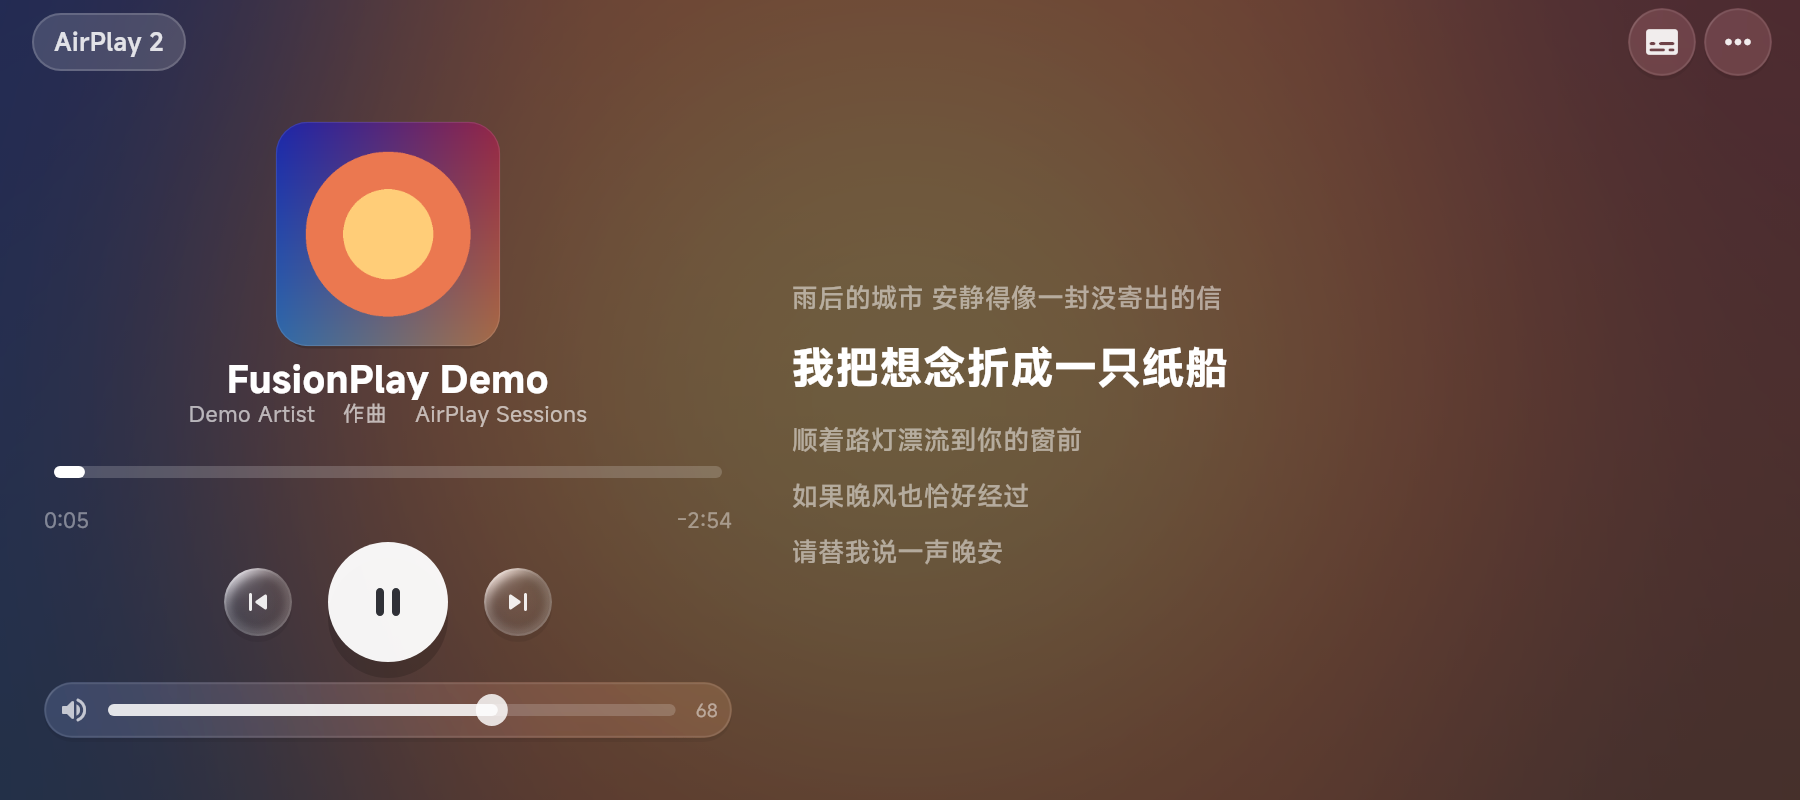
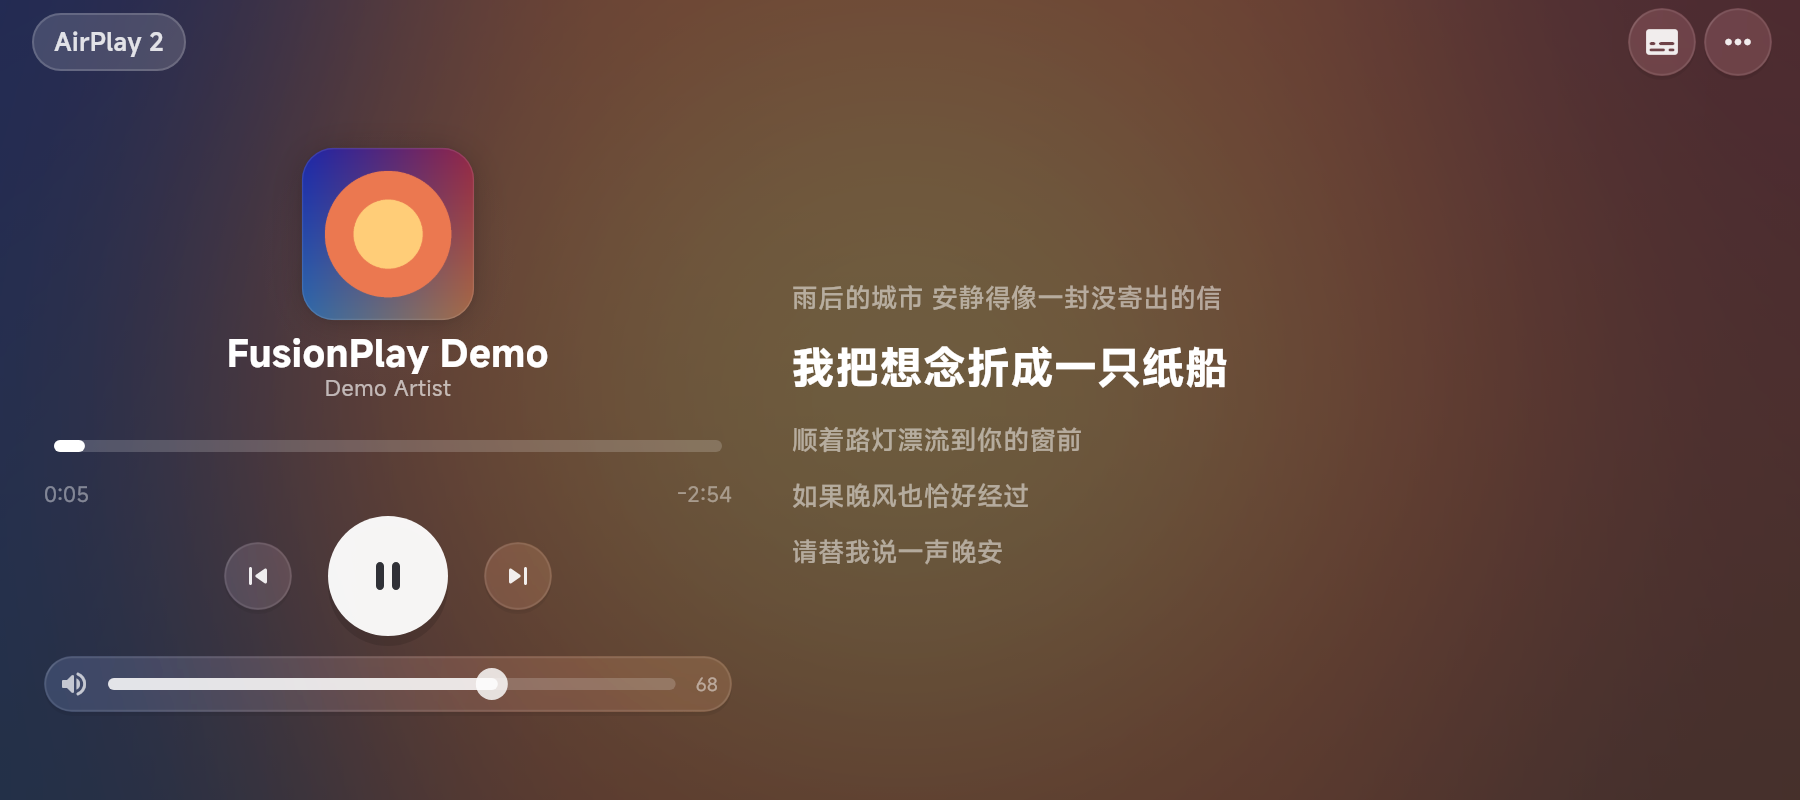
player: drop composer marker and source/lyrics hint lines

Changed region(s): [[0.0, 0.125, 0.4044, 0.9375]]

diff --git a/flutter/lib/ui/player_view.dart b/flutter/lib/ui/player_view.dart
@@ -9,7 +9,6 @@ import '../theme/fusion_theme.dart';
 import 'animated_press_scale.dart';
 import 'artwork.dart';
 import 'floating_album_art.dart';
-import 'liquid_glass.dart';
 import 'g2_shape.dart';
 import 'package:liquid_glass_widgets/liquid_glass_widgets.dart' as lg;
 
@@ -306,6 +305,25 @@ class _PlayerViewState extends State<PlayerView> {
       );
     }
     return playback.lyrics;
+  }
+
+  /// Some senders append a composer marker ("作曲", "Composer") to the artist
+  /// field. The player shows the performer only.
+  String? _cleanArtist(String? raw) {
+    final value = raw?.trim();
+    if (value == null || value.isEmpty) return null;
+    var cleaned = value
+        .replaceAll(
+          RegExp(r'\s*[·•|｜/]\s*(作曲|Composer)\s*$', caseSensitive: false),
+          '',
+        )
+        .replaceAll(
+          RegExp(r'^\s*(作曲|Composer)\s*[·•|｜/]?\s*', caseSensitive: false),
+          '',
+        )
+        .trim();
+    if (cleaned.isEmpty) cleaned = value;
+    return cleaned;
   }
 
   (String, String?) _displayMetadata(PlaybackSnapshot playback) {
@@ -774,17 +792,16 @@ class _PlayerViewState extends State<PlayerView> {
       // volume and spacing.  The 900x400 / 980x420 previews previously
       // overflowed because 183px underestimated the real controls stack.
       final controlsBudget = dense ? 206.0 : (compact ? 248.0 : 286.0);
-      final cover = math.min(
-        panelWidth - padding * 2,
-        math.max(64.0, panelHeight - padding * 2 - controlsBudget),
-      ).clamp(64.0, 500.0).toDouble();
+      final cover = math
+          .min(
+            panelWidth - padding * 2,
+            math.max(64.0, panelHeight - padding * 2 - controlsBudget),
+          )
+          .clamp(64.0, 500.0)
+          .toDouble();
       final playback = widget.state.playback;
       final (title, artist) = _displayMetadata(playback);
-      final album = playback.album?.trim();
-      final artistLine =
-          compact && artist != null && album != null && album.isNotEmpty
-          ? '$artist · $album'
-          : artist;
+      final artistLine = _cleanArtist(artist);
       return Padding(
         padding: EdgeInsets.all(padding),
         child: Column(
@@ -818,17 +835,6 @@ class _PlayerViewState extends State<PlayerView> {
                 style: TextStyle(
                   fontSize: compact ? 11 : 14,
                   color: Colors.white.withValues(alpha: .64),
-                ),
-              ),
-            if (!compact && album != null && album.isNotEmpty)
-              Text(
-                album,
-                maxLines: 1,
-                overflow: TextOverflow.ellipsis,
-                textAlign: TextAlign.center,
-                style: TextStyle(
-                  fontSize: 12,
-                  color: Colors.white.withValues(alpha: .46),
                 ),
               ),
             SizedBox(height: compact ? 1 : 4),
@@ -924,10 +930,10 @@ class _PlayerViewState extends State<PlayerView> {
       // Portrait / very narrow: cover above info instead of a cramped row.
       final portrait = cappedWidth < 560;
       // Make the cover the visual anchor without consuming control space.
-      final cover = math.min(
-        groupWidth * .39,
-        content.maxHeight * (compact ? .72 : .76),
-      ).clamp(88.0, 420.0).toDouble();
+      final cover = math
+          .min(groupWidth * .39, content.maxHeight * (compact ? .72 : .76))
+          .clamp(88.0, 420.0)
+          .toDouble();
       return Padding(
         key: const ValueKey('player-centered-layout'),
         padding: const EdgeInsets.fromLTRB(18, 0, 18, 10),
@@ -985,9 +991,6 @@ class _PlayerViewState extends State<PlayerView> {
   Widget _liquid21InfoPanel({required bool compact, bool dense = false}) {
     final playback = widget.state.playback;
     final (title, artist) = _displayMetadata(playback);
-    final album = playback.album?.trim();
-    final hiddenByUser = _lyricsSupported && _hasDisplayableLyrics;
-    final hint = hiddenByUser ? null : _centeredHint(playback);
     return Padding(
       padding: EdgeInsets.all(compact ? (dense ? 4 : 6) : 18),
       child: Column(
@@ -1009,36 +1012,12 @@ class _PlayerViewState extends State<PlayerView> {
           if (artist != null && artist.isNotEmpty) ...[
             const SizedBox(height: 3),
             Text(
-              artist,
+              _cleanArtist(artist) ?? '',
               maxLines: 1,
               overflow: TextOverflow.ellipsis,
               style: TextStyle(
                 fontSize: compact ? 12 : 15,
                 color: Colors.white70,
-              ),
-            ),
-          ],
-          if (album != null && album.isNotEmpty) ...[
-            const SizedBox(height: 2),
-            Text(
-              album,
-              maxLines: 1,
-              overflow: TextOverflow.ellipsis,
-              style: TextStyle(
-                fontSize: compact ? 10 : 12,
-                color: Colors.white54,
-              ),
-            ),
-          ],
-          if (hint != null) ...[
-            const SizedBox(height: 4),
-            Text(
-              hint,
-              maxLines: 1,
-              overflow: TextOverflow.ellipsis,
-              style: TextStyle(
-                fontSize: compact ? 10 : 12,
-                color: Colors.white38,
               ),
             ),
           ],
@@ -1446,14 +1425,6 @@ class _PlayerViewState extends State<PlayerView> {
   Widget _breathingArtwork({required double size, required Widget child}) {
     final enabled = widget.state.playback.isPlaying && !_reduceMotion;
     return _ArtworkBreath(enabled: enabled, child: child);
-  }
-
-  String _centeredHint(PlaybackSnapshot playback) {
-    final channel = playbackChannelForProtocol(playback.protocol);
-    final copy = lyricsEmptyCopyForChannel(channel);
-    // Neutral runtime wording: never claim the protocol lacks lyric support.
-    if (channel == PlaybackChannel.airPlay) return copy.description;
-    return copy.title;
   }
 
   /// Apple Music-style no-lyrics landscape: one large cover with the real

diff --git a/flutter/test/lyrics_player_test.dart b/flutter/test/lyrics_player_test.dart
@@ -195,7 +195,7 @@ void main() {
       findsOneWidget,
     );
     expect(find.byKey(const ValueKey('player-lyrics-view')), findsNothing);
-    expect(find.text('暂无歌词'), findsOneWidget);
+    expect(find.text('暂无歌词'), findsNothing);
     expect(tester.takeException(), isNull);
   });
 
@@ -435,7 +435,7 @@ void main() {
       findsOneWidget,
     );
     expect(find.byKey(const ValueKey('player-lyrics-view')), findsNothing);
-    expect(find.text('音频流未提供歌词'), findsOneWidget);
+    expect(find.text('音频流未提供歌词'), findsNothing);
     expect(find.textContaining('不提供歌词'), findsNothing);
     // 顶部只保留协议；音频格式不再显示。
     expect(find.text('AirPlay 2'), findsWidgets);
@@ -456,7 +456,7 @@ void main() {
       findsOneWidget,
     );
     expect(find.byKey(const ValueKey('player-lyrics-view')), findsNothing);
-    expect(find.text('此发送端未提供歌词'), findsOneWidget);
+    expect(find.text('此发送端未提供歌词'), findsNothing);
     expect(find.text('暂无歌词'), findsNothing);
   });
 
@@ -467,7 +467,7 @@ void main() {
       find.byKey(const ValueKey('player-centered-layout')),
       findsOneWidget,
     );
-    expect(find.text('此歌曲没有歌词'), findsOneWidget);
+    expect(find.text('此歌曲没有歌词'), findsNothing);
     expect(find.text('暂无歌词'), findsNothing);
   });
 
@@ -684,7 +684,7 @@ void main() {
     await _pumpPlayer(tester, _state(), size: const Size(800, 360));
 
     expect(find.text('Track'), findsOneWidget);
-    expect(find.text('暂无歌词'), findsOneWidget);
+    expect(find.text('暂无歌词'), findsNothing);
     expect(find.byKey(const ValueKey('player-dock')), findsNothing);
     expect(
       find.byKey(const ValueKey('playback-play-pause-button')),
